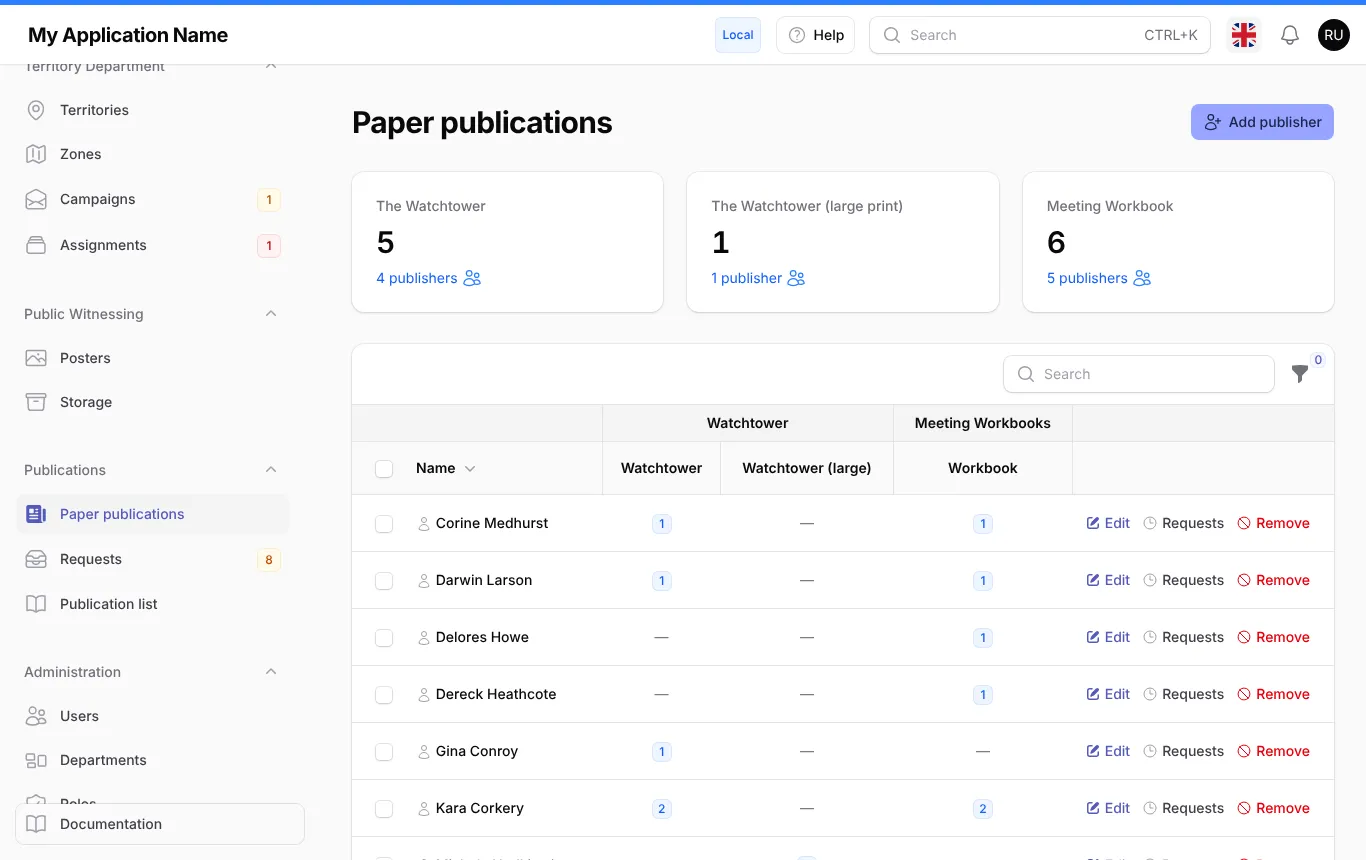
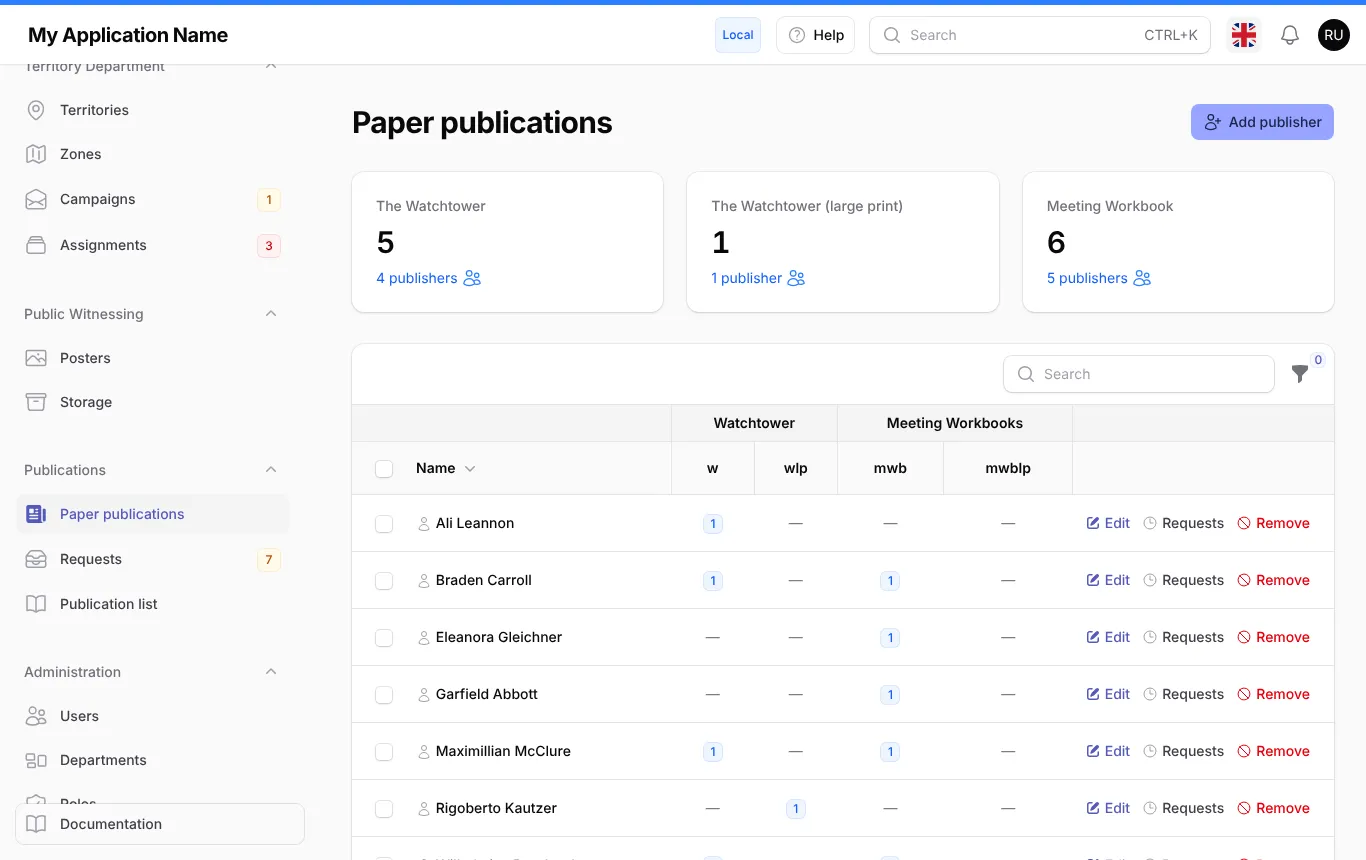
docs(publications): explain translated names

diff --git a/docs/user-documentation/it/publications/periodicals.md b/docs/user-documentation/it/publications/periodicals.md
@@ -36,16 +36,20 @@ nuovo in seguito. Il pulsante **Richieste** apre lo storico delle sue richieste.
 ## L'elenco delle pubblicazioni
 
 Le pubblicazioni che si possono ricevere non sono fisse: apri **Pubblicazioni → Elenco pubblicazioni** per
-aggiungerle, rinominarle o eliminarle. L'elenco parte con *La Torre di Guardia*, la sua edizione a caratteri grandi e
-la *Guida per l'adunanza*.
+aggiungerle, rinominarle o eliminarle. L'elenco parte con i periodici, già tradotti in ogni lingua: *La Torre di
+Guardia* (anche a caratteri grandi e nell'edizione per il pubblico), *Svegliatevi!* e la *Guida per l'adunanza* (anche
+a caratteri grandi). Come ogni altra pubblicazione si possono modificare, disattivare o eliminare (una volta eliminati
+non vengono ricreati).
 
 ![Elenco pubblicazioni](/docs/user-documentation/it/publications/assets/publications.webp)
 
-1. Clicca **Nuovo** e inserisci il **Nome** (es. *Svegliatevi!*).
+1. Clicca **Nuovo** e inserisci il **Nome** nella tua lingua (es. *Vivi felice per sempre!*): puoi inserirlo anche
+   nelle altre lingue, altrimenti mostrano quello che hai scritto.
 2. Scegli la **Categoria**, come nella Biblioteca online Watchtower: *Bibbie*, *Torre di Guardia*, *Svegliatevi!*,
    *Guide per l'adunanza*, *Libri*, *Opuscoli e brochure*, *Volantini*, *Indici*, *Programmi*, *Manuali e linee guida*
    o *Altro*.
-3. Se vuoi, inserisci un **Nome breve** (es. la sigla `lff`), mostrato nell'intestazione della sua colonna.
+3. Se vuoi, inserisci la sua **Sigla** (es. `lff`), la stessa in ogni lingua e mostrata nell'intestazione della sua
+   colonna.
 4. Per le pubblicazioni ricevute regolarmente, indica ogni quanti mesi **Si rinnova** (es. 1 per *La Torre di
    Guardia*, 2 per la *Guida per l'adunanza*); lascialo vuoto per quelle richieste una volta sola (es. un libro).
 5. Clicca **Salva**: una pubblicazione che si rinnova avrà la sua colonna nelle pubblicazioni su carta; tutte si

diff --git a/CHANGELOG.md b/CHANGELOG.md
@@ -13,11 +13,12 @@ and this project adheres to [Semantic Versioning](https://semver.org/spec/v2.0.0
   with its overseers and assistants, who can manage the sections of their department without needing a role
   ([#45](https://github.com/OpenCHelper/OpenCongregationHelper/pull/45)).
 - **Posters inventory** (Public Witnessing → Posters): the magnetic posters of the displays, with their code, title and
-  copies in each storage place, e.g. the Kingdom Hall or a storage box. They can be imported from a spreadsheet
-  ([#45](https://github.com/OpenCHelper/OpenCongregationHelper/pull/45)).
+  copies in each storage place, e.g. the Kingdom Hall or a storage box. Titles can be translated in every language, and
+  posters can be imported from a spreadsheet ([#45](https://github.com/OpenCHelper/OpenCongregationHelper/pull/45)).
 - **Paper publications** (Publications): who receives publications on paper regularly, with the total copies to order.
-  The publications and their categories (books, tracts, ...) are managed in the publication list, which starts with The
-  Watchtower, its large print edition and the Meeting Workbook ([#45](https://github.com/OpenCHelper/OpenCongregationHelper/pull/45)).
+  The publications, with their names in every language, code and category (books, tracts, ...), are managed in the
+  publication list, which starts with the periodicals already translated: The Watchtower (also large print and public
+  edition), Awake! and the Meeting Workbook (also large print) ([#45](https://github.com/OpenCHelper/OpenCongregationHelper/pull/45)).
 - **Publication requests** (Publications → Requests): when each publisher asked for a publication, until it is ordered
   (optional) and delivered, with a chart of the last 12 months and the history of each publisher and publication. The
   publications received regularly are requested again automatically every period, e.g. every month

diff --git a/docs/user-documentation/en/publications/periodicals.md b/docs/user-documentation/en/publications/periodicals.md
@@ -36,14 +36,17 @@ their publications are no longer requested, but their history is kept and you ca
 ## The publication list
 
 The publications that can be received are not fixed: open **Publications → Publication list** to add, rename or remove
-them. The list starts with *The Watchtower*, its large print edition and the *Meeting Workbook*.
+them. The list starts with the periodicals, already translated in every language: *The Watchtower* (also in large
+print and the public edition), *Awake!* and the *Meeting Workbook* (also in large print). Like any other publication,
+they can be changed, turned off or deleted (a deleted one is not created again).
 
 ![Publication list](/docs/user-documentation/en/publications/assets/publications.webp)
 
-1. Click **New** and enter the **Name** (e.g. *Awake!*).
+1. Click **New** and enter the **Name** in your language (e.g. *Enjoy Life Forever!*): you can also enter it in the
+   other languages, otherwise they show it as you wrote it.
 2. Choose the **Category**, as in the Watchtower Online Library: *Bibles*, *Watchtower*, *Awake!*, *Meeting Workbooks*,
    *Books*, *Brochures and Booklets*, *Tracts*, *Indexes*, *Programs*, *Manuals and Guidelines* or *Other*.
-3. Optionally, enter a **Short name** (e.g. the symbol `lff`), shown in the header of its column.
+3. Optionally, enter its **Code** (e.g. `lff`), the same in every language and shown in the header of its column.
 4. For the publications received regularly, enter every how many months it **Renews** (e.g. 1 for *The Watchtower*, 2
    for the *Meeting Workbook*); leave it empty for the ones requested once (e.g. a book).
 5. Click **Create**: a publication that renews gets its own column in the paper publications; all of them can be

diff --git a/docs/user-documentation/it/public-witnessing/posters.md b/docs/user-documentation/it/public-witnessing/posters.md
@@ -17,7 +17,8 @@ oppure solo quelli **Disponibili** o **Esauriti**.
 ## Aggiungere o modificare un poster
 
 1. Clicca **Nuovo** (o **Modifica** su un poster esistente).
-2. Inserisci la **Sigla** (facoltativa, es. `mi-25`) e il **Titolo**.
+2. Inserisci la **Sigla** (facoltativa, es. `mi-25`) e il **Titolo** nella tua lingua; puoi inserirlo anche nelle
+   altre lingue, altrimenti mostrano quello che hai scritto.
 3. In **Quantità**, scegli un **Deposito** e inserisci il numero di **Copie**. Clicca **Aggiungi deposito** per aggiungere le
    copie conservate in un altro posto. Per creare al volo un nuovo deposito, clicca **+** accanto al campo.
 4. Se vuoi, carica un'**Immagine** del poster per riconoscerlo a colpo d'occhio.
@@ -45,6 +46,7 @@ con le righe che non è stato possibile importare.
 - Le righe con la stessa **Sigla** (o con lo stesso **Titolo**, se non c'è la sigla) sono lo stesso poster: importando
   di nuovo il file si aggiornano i poster e le loro copie invece di duplicarli.
 - Le **Copie** di una riga sostituiscono quelle di quel deposito; i depositi che non esistono ancora vengono creati.
+- I **Titoli** vengono salvati nella tua lingua: le traduzioni nelle altre lingue vengono conservate.
 
 ## Depositi
 

diff --git a/docs/user-documentation/en/public-witnessing/posters.md b/docs/user-documentation/en/public-witnessing/posters.md
@@ -17,7 +17,8 @@ the ones that are **Available** or **Out of stock**.
 ## Adding or editing a poster
 
 1. Click **New Poster** (or **Edit** on an existing one).
-2. Fill in the **Code** (optional, e.g. `mi-25`) and the **Title**.
+2. Fill in the **Code** (optional, e.g. `mi-25`) and the **Title** in your language; you can also enter it in the
+   other languages, otherwise they show it as you wrote it.
 3. Under **Quantities**, choose a **Storage place** and enter the number of **Copies**. Click **Add storage place** to add the
    copies kept in another place. To create a new storage place on the fly, click **+** next to it.
 4. Optionally, upload a **Picture** of the poster to recognize it at a glance.
@@ -45,6 +46,7 @@ not be imported.
 - The rows with the same **Code** (or with the same **Title**, when there is no code) are the same poster: importing
   the file again updates the posters and their copies instead of duplicating them.
 - The **Copies** of a row replace the ones of that storage place; the storage places that don't exist yet are created.
+- The **Titles** are saved in your language: the translations in the other languages are kept.
 
 ## Storage
 
